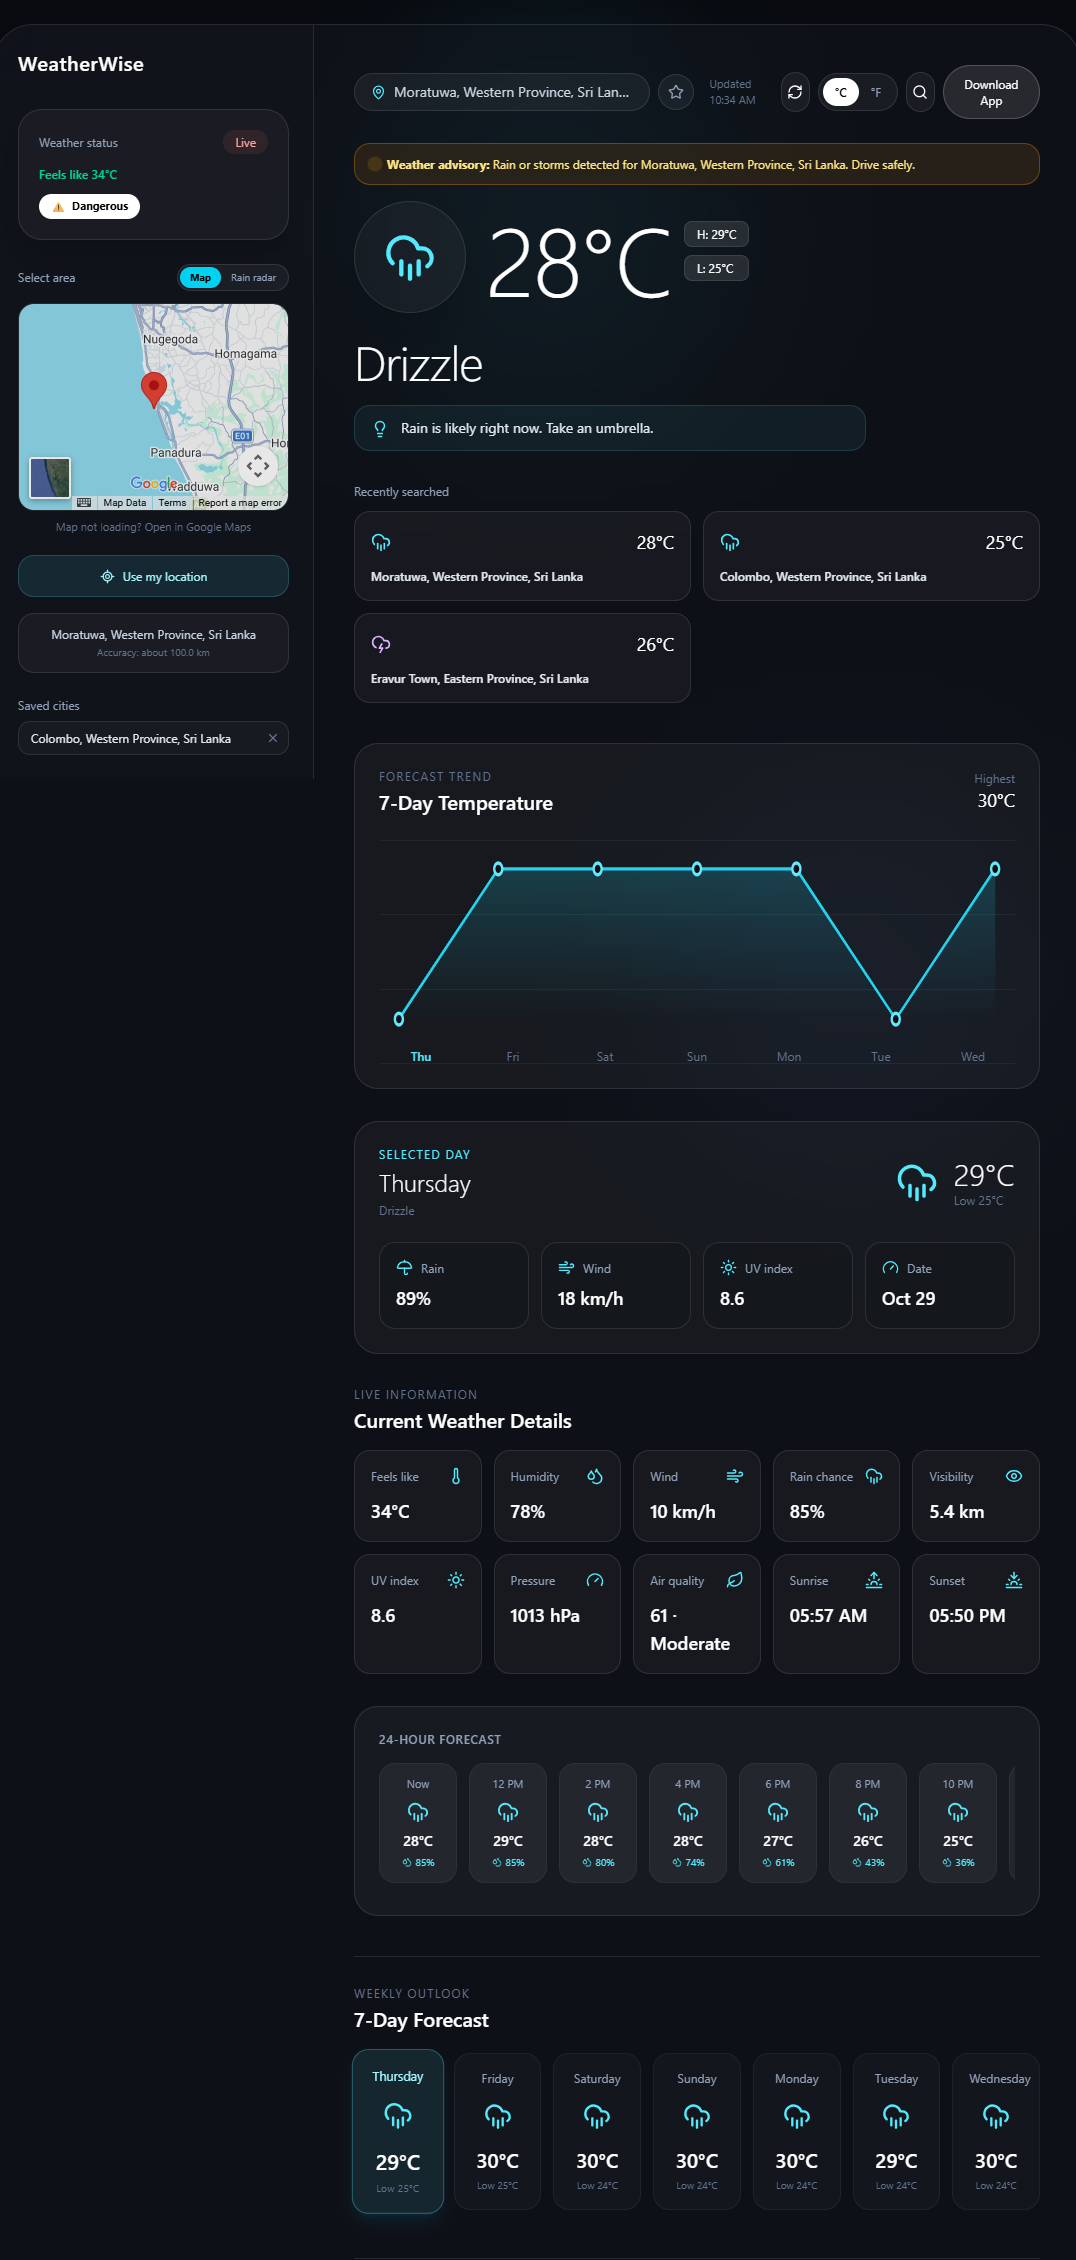
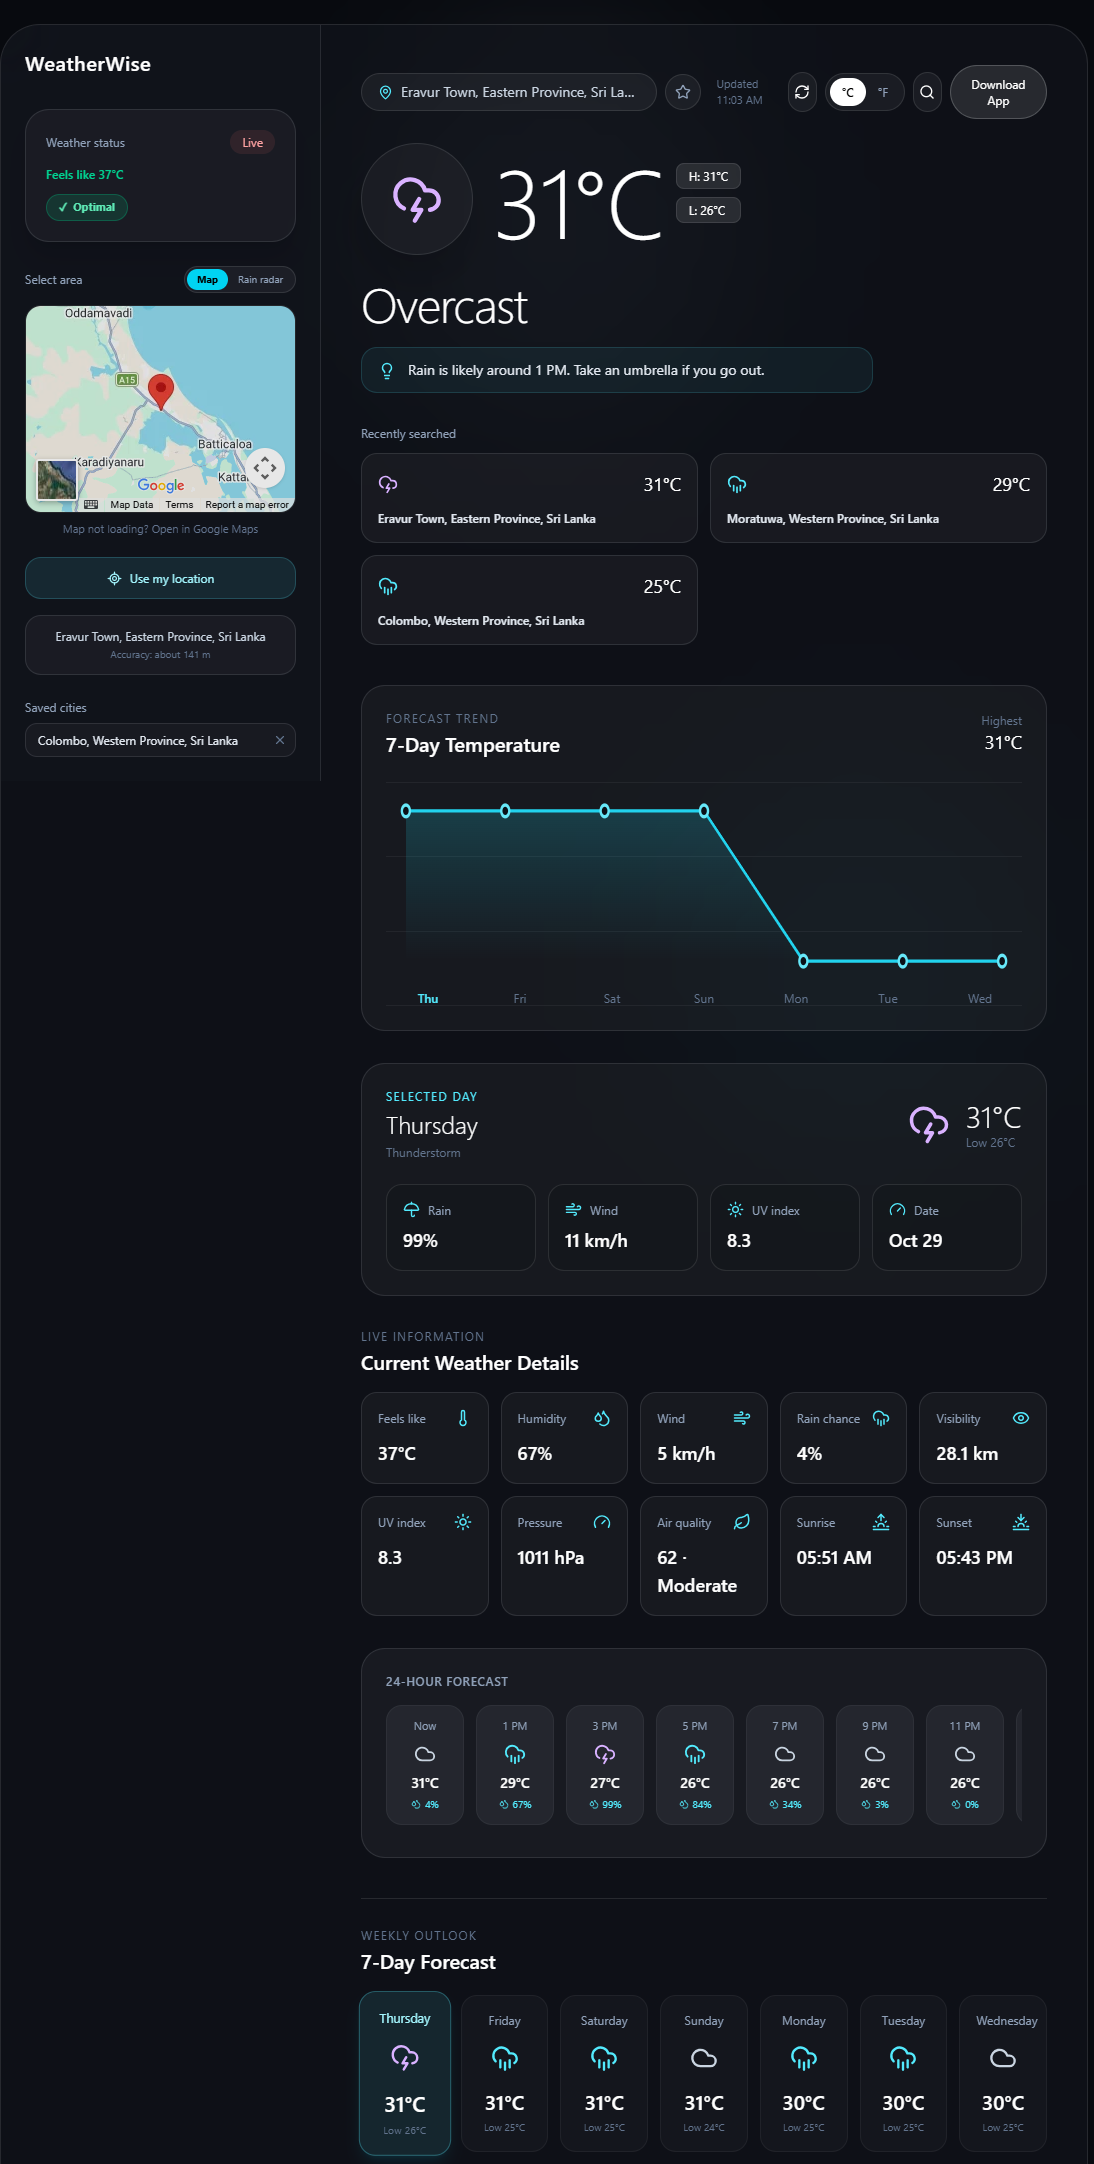
Tidy README images

diff --git a/README.md b/README.md
@@ -4,7 +4,7 @@ A real-time weather dashboard for any city in the world. It shows current condit
 
 **Live demo:** https://weatherwise-sigma-inky.vercel.app
 
-   ![WeatherWise screenshot](public/screenshot.png)
+   
      ![WeatherWise full page](public/screenshot-full.png)
 
 ## Features
